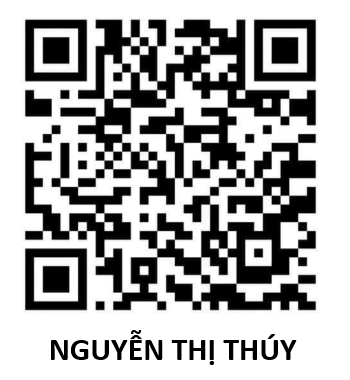
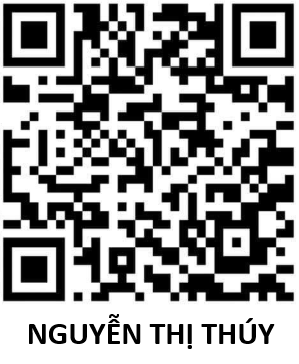
update qr code

diff --git a/index.html b/index.html
@@ -237,11 +237,19 @@
                 <p style="font-weight:600; padding-bottom: 0 !important; font-family: Cormorant Upright;">Thật lấy làm tiếc nếu bạn không thể tham dự lễ cưới</p>
                 <p style="font-weight:600; padding-bottom: 0 !important; font-family: Cormorant Upright;">nhưng bạn có thể gửi lời chúc đong đầy yêu thương cho chúng tôi.</p>
                 <div class="row">
-                    <div class="col-md-6">
+                    <div class="col-md-6 text-center">
                         <img src="img/qr-1.png" width="270px" height="300px">
+                        <div>
+                            <h4>Ngân Hàng Techcombank</h4>
+                            <h4>STK: 19032570330012</h4>
+                        </div>
                     </div>
-                    <div class="col-md-6">
+                    <div class="col-md-6 text-center">
                         <img src="img/qr-2.png" width="270px" height="300px">
+                        <div>
+                            <h4>Ngân Hàng BIDV</h4>
+                            <h4>STK: 21310001044464</h4>
+                        </div>
                     </div>
                 </div>
                 <br />
